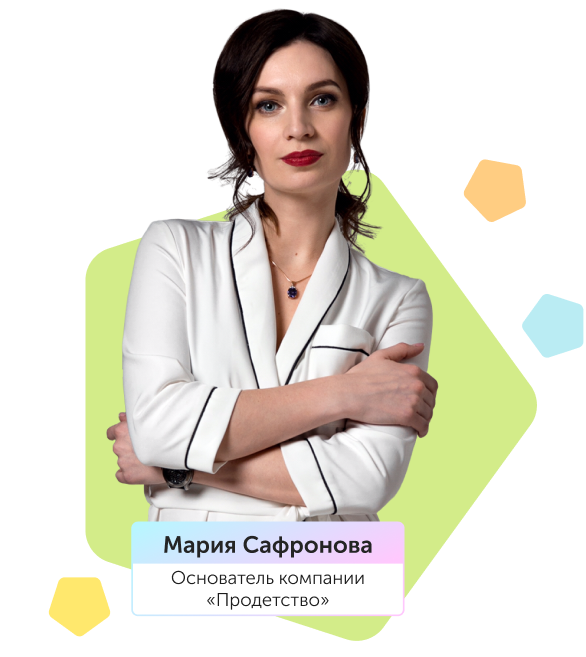
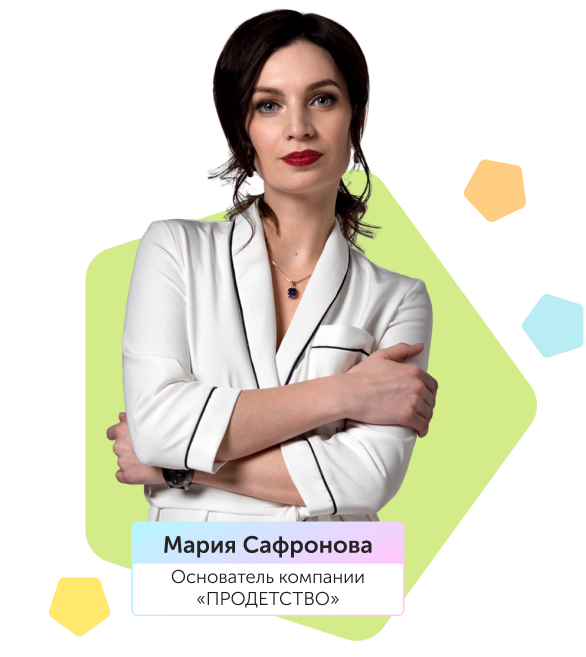
Make text edits

Changed region(s): [[0.3072, 0.8524, 0.5836, 0.9437]]

diff --git a/src/index.html b/src/index.html
@@ -184,8 +184,6 @@
                   <li class="choice__item-item">
                     Интеллектуальными занятиями и подготовкой к школе.
                   </li>
-                  Основами закаливания и спортивной подготовкой;
-                  Интеллектуальными занятиями и подготовкой к школе.
                 </ul>
               </div>
             </li>
@@ -209,8 +207,8 @@
                 </li>
                 <li class="choice__item-item">
                   Деский сад оснащён интерактивным оборудованием
-                  «интерактивный пол». Занятия на нём оказываю профилактический
-                  эффект от плоскостопия и сколеоза.
+                  «интерактивный пол». Занятия на нём оказывают профилактический
+                  эффект от плоскостопия и сколиоза.
                 </li>
               </ul>
             </li>
@@ -224,7 +222,7 @@
                 чувство ответственности и дружелюбие к товарищам.
               </p>
               <p class="choice__item-text">
-                У нас проходят спектакли для родителей, к которым дети готовят
+                У нас проходят спектакли, к которым дети готовят
                 и репетируют свои роли.
               </p>
             </li>
@@ -249,7 +247,7 @@
             дополнительные занятия
           </h2>
           <p class="about__title-text">
-            По франшизе «ПРОДЕТСТВО» вы откроете свой детский садик
+            По франшизе «ПРОДЕТСТВО» вы откроете свой детский сад
             по бизнес-модели, которая уже проверена и устойчива более 10 лет.
           </p>
           <p class="about__list-title">
@@ -389,11 +387,11 @@
               <p>
                 <span>В штате детского сада предусмотрен методист,</span>
                 который контролирует качество обучения детей. Он проверяет
-                компетенции нанимаемых педагогов и следит за качеством
-                проведения занятий. 2 раза в неделю методист заполняет «карту
-                контроля» с отчётами по проведённым занятиям. Если качество
-                уроков не соответствует стандартам «ПРОДЕТСТВО», он проводит
-                беседы с педагогом и предпринимает необходимые меры.
+                компетенции нанимаемых педагогов и следит за проведением
+                занятий. 2 раза в неделю методист заполняет «карту контроля»
+                с отчётами по проведённым занятиям. Если уроки не соответствуют
+                стандартам «ПРОДЕТСТВО», он проводит беседы с педагогом
+                и предпринимает необходимые меры.
               </p>
             </li>
             <li class="controll__top-item">
@@ -1001,16 +999,6 @@
               <p class="money__text">
                 Вы будете получать от Головной компании подборку тендеров
                 на открытие льготных мест в детском саду и получение субсидий.
-              </p>
-            </div>
-            <div class="money__text-block">
-              <p class="money__text">
-                <b>За два года мы выиграли 2 тендера,</b> благодаря которым
-                <b>
-                  открыли 8 льготных мест и получили 1&nbsp;195&nbsp;000 рублей
-                  из бюджета государства,
-                </b>
-                а также получаем ежемесячные субсидии.
               </p>
             </div>
             <div class="money__text-block">

diff --git a/src/thanks.html b/src/thanks.html
@@ -28,7 +28,7 @@
             <div class="thanks__content">
               <h1 class="thanks__title">
                 <span class="thanks__user-name js-name"></span>, благодарим Вас
-                за обращение в компанию «Продетство»©
+                за обращение в компанию «ПРОДЕТСТВО»©
               </h1>
               <p class="thanks__text">
                 Для обсуждения сотрудничества мы свяжемся с вами в ближайшее
